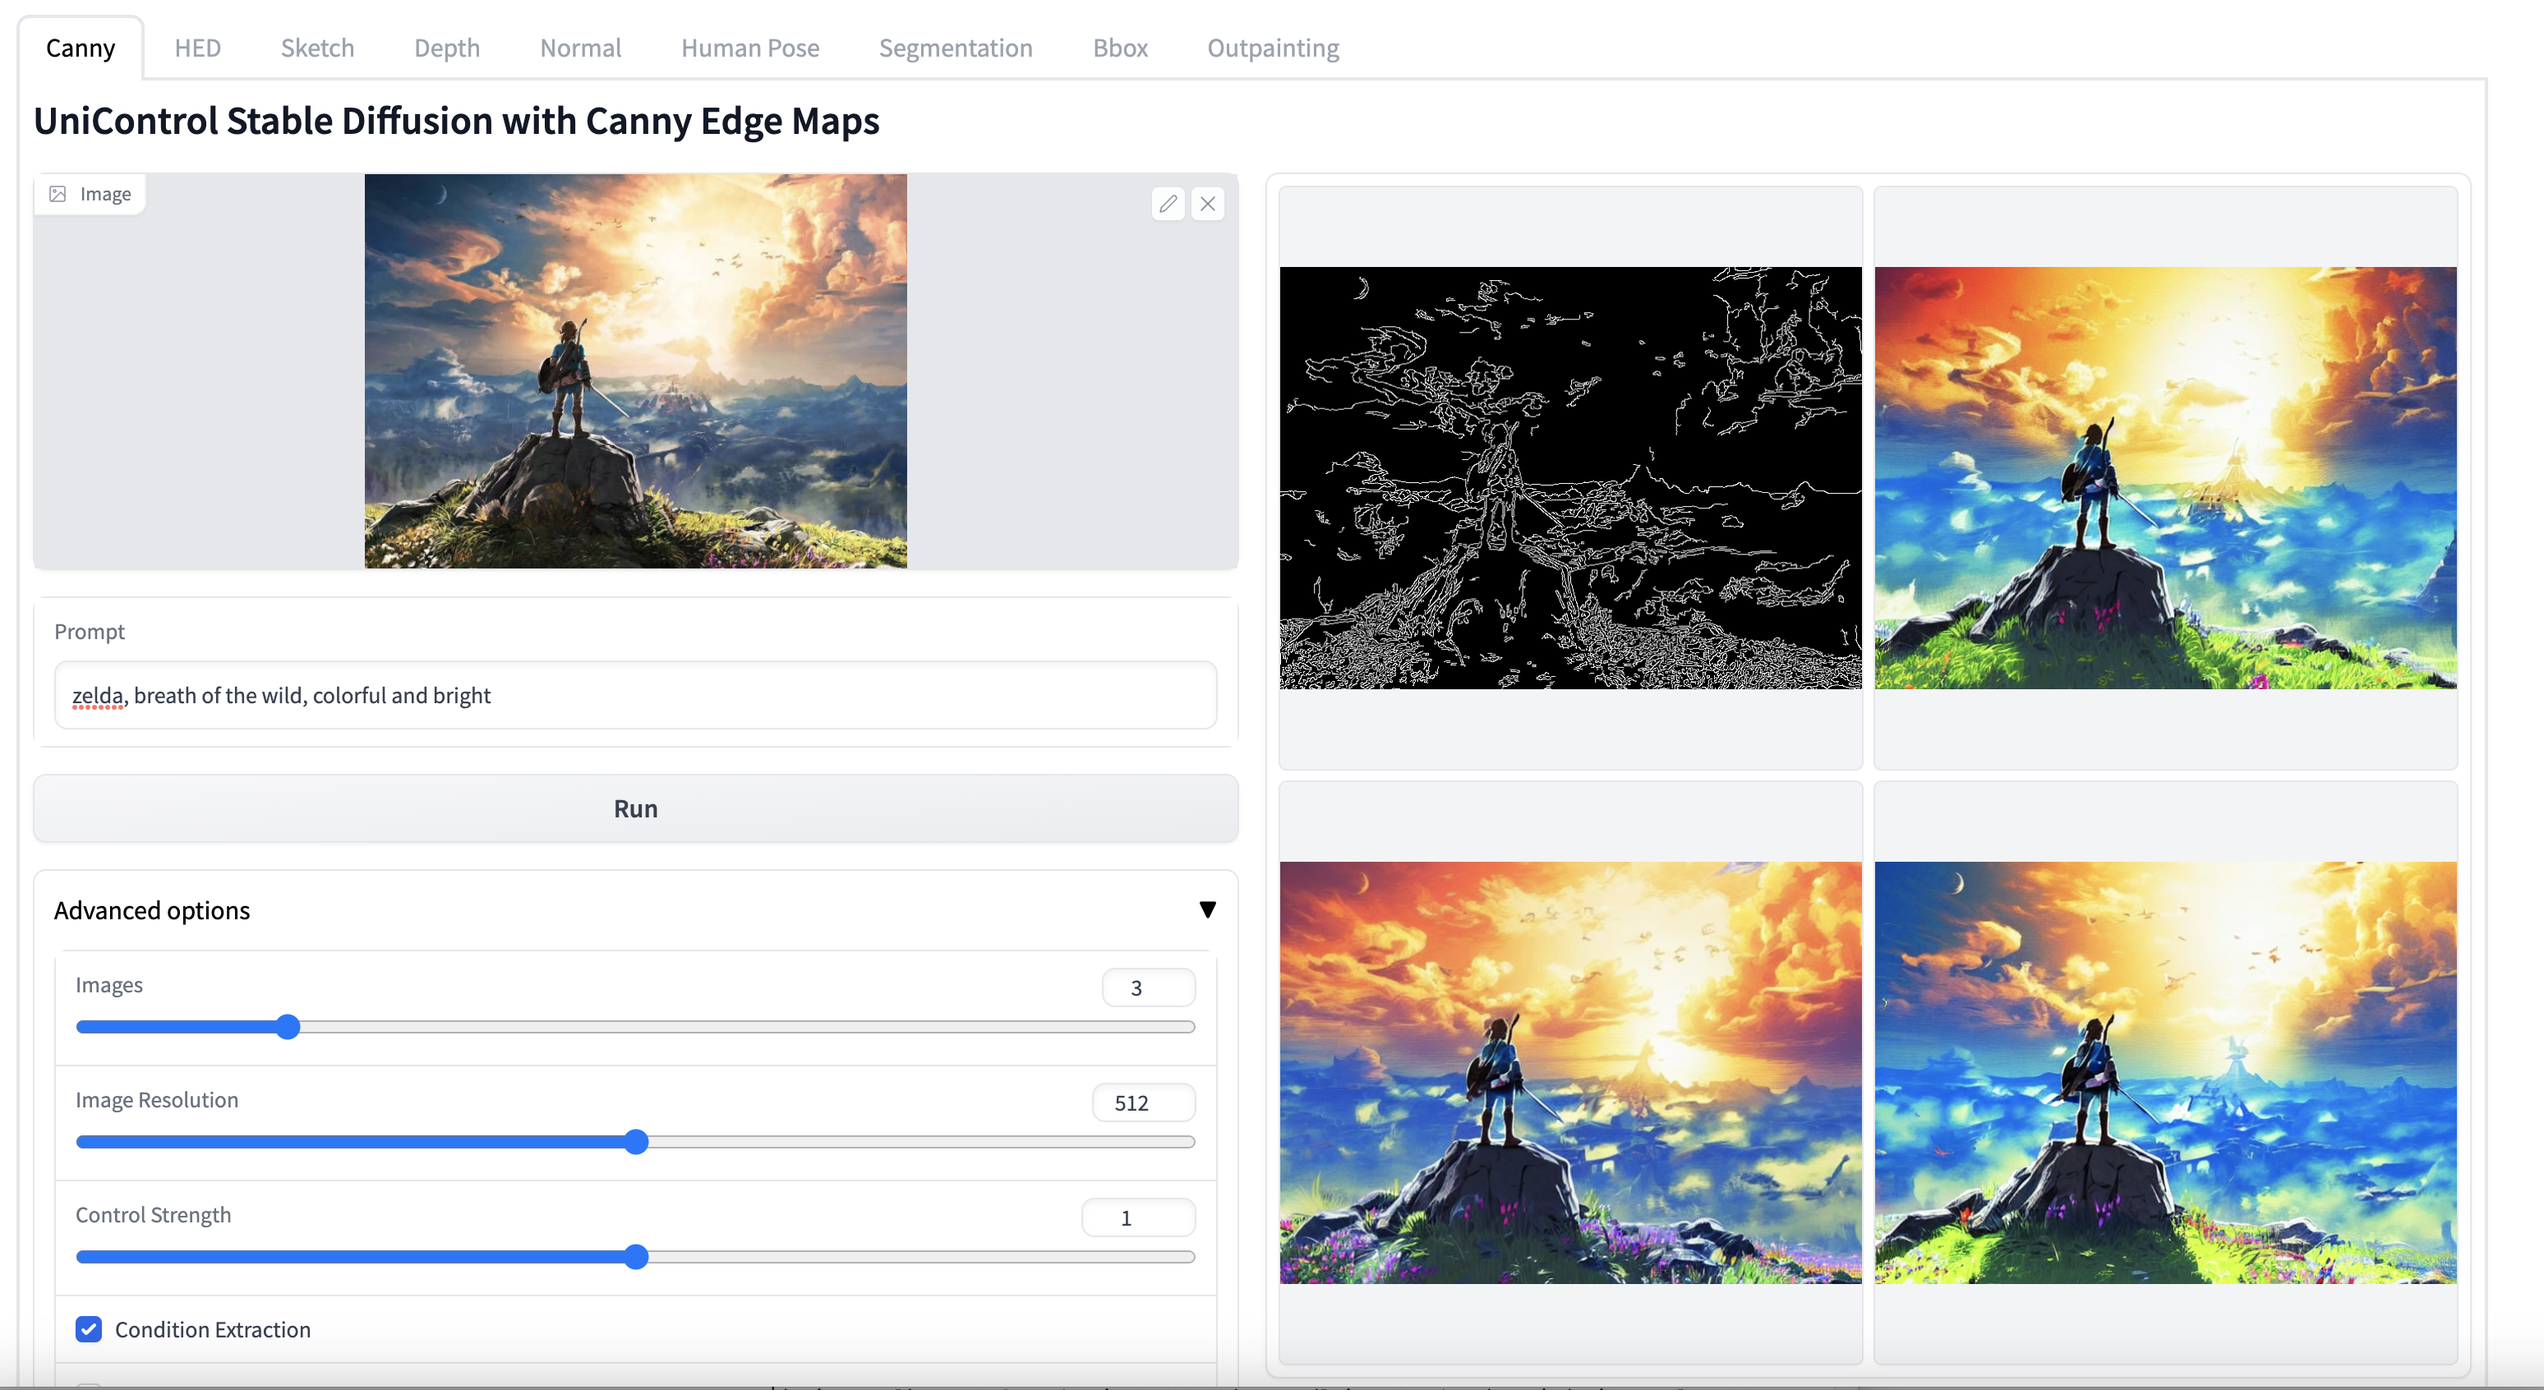
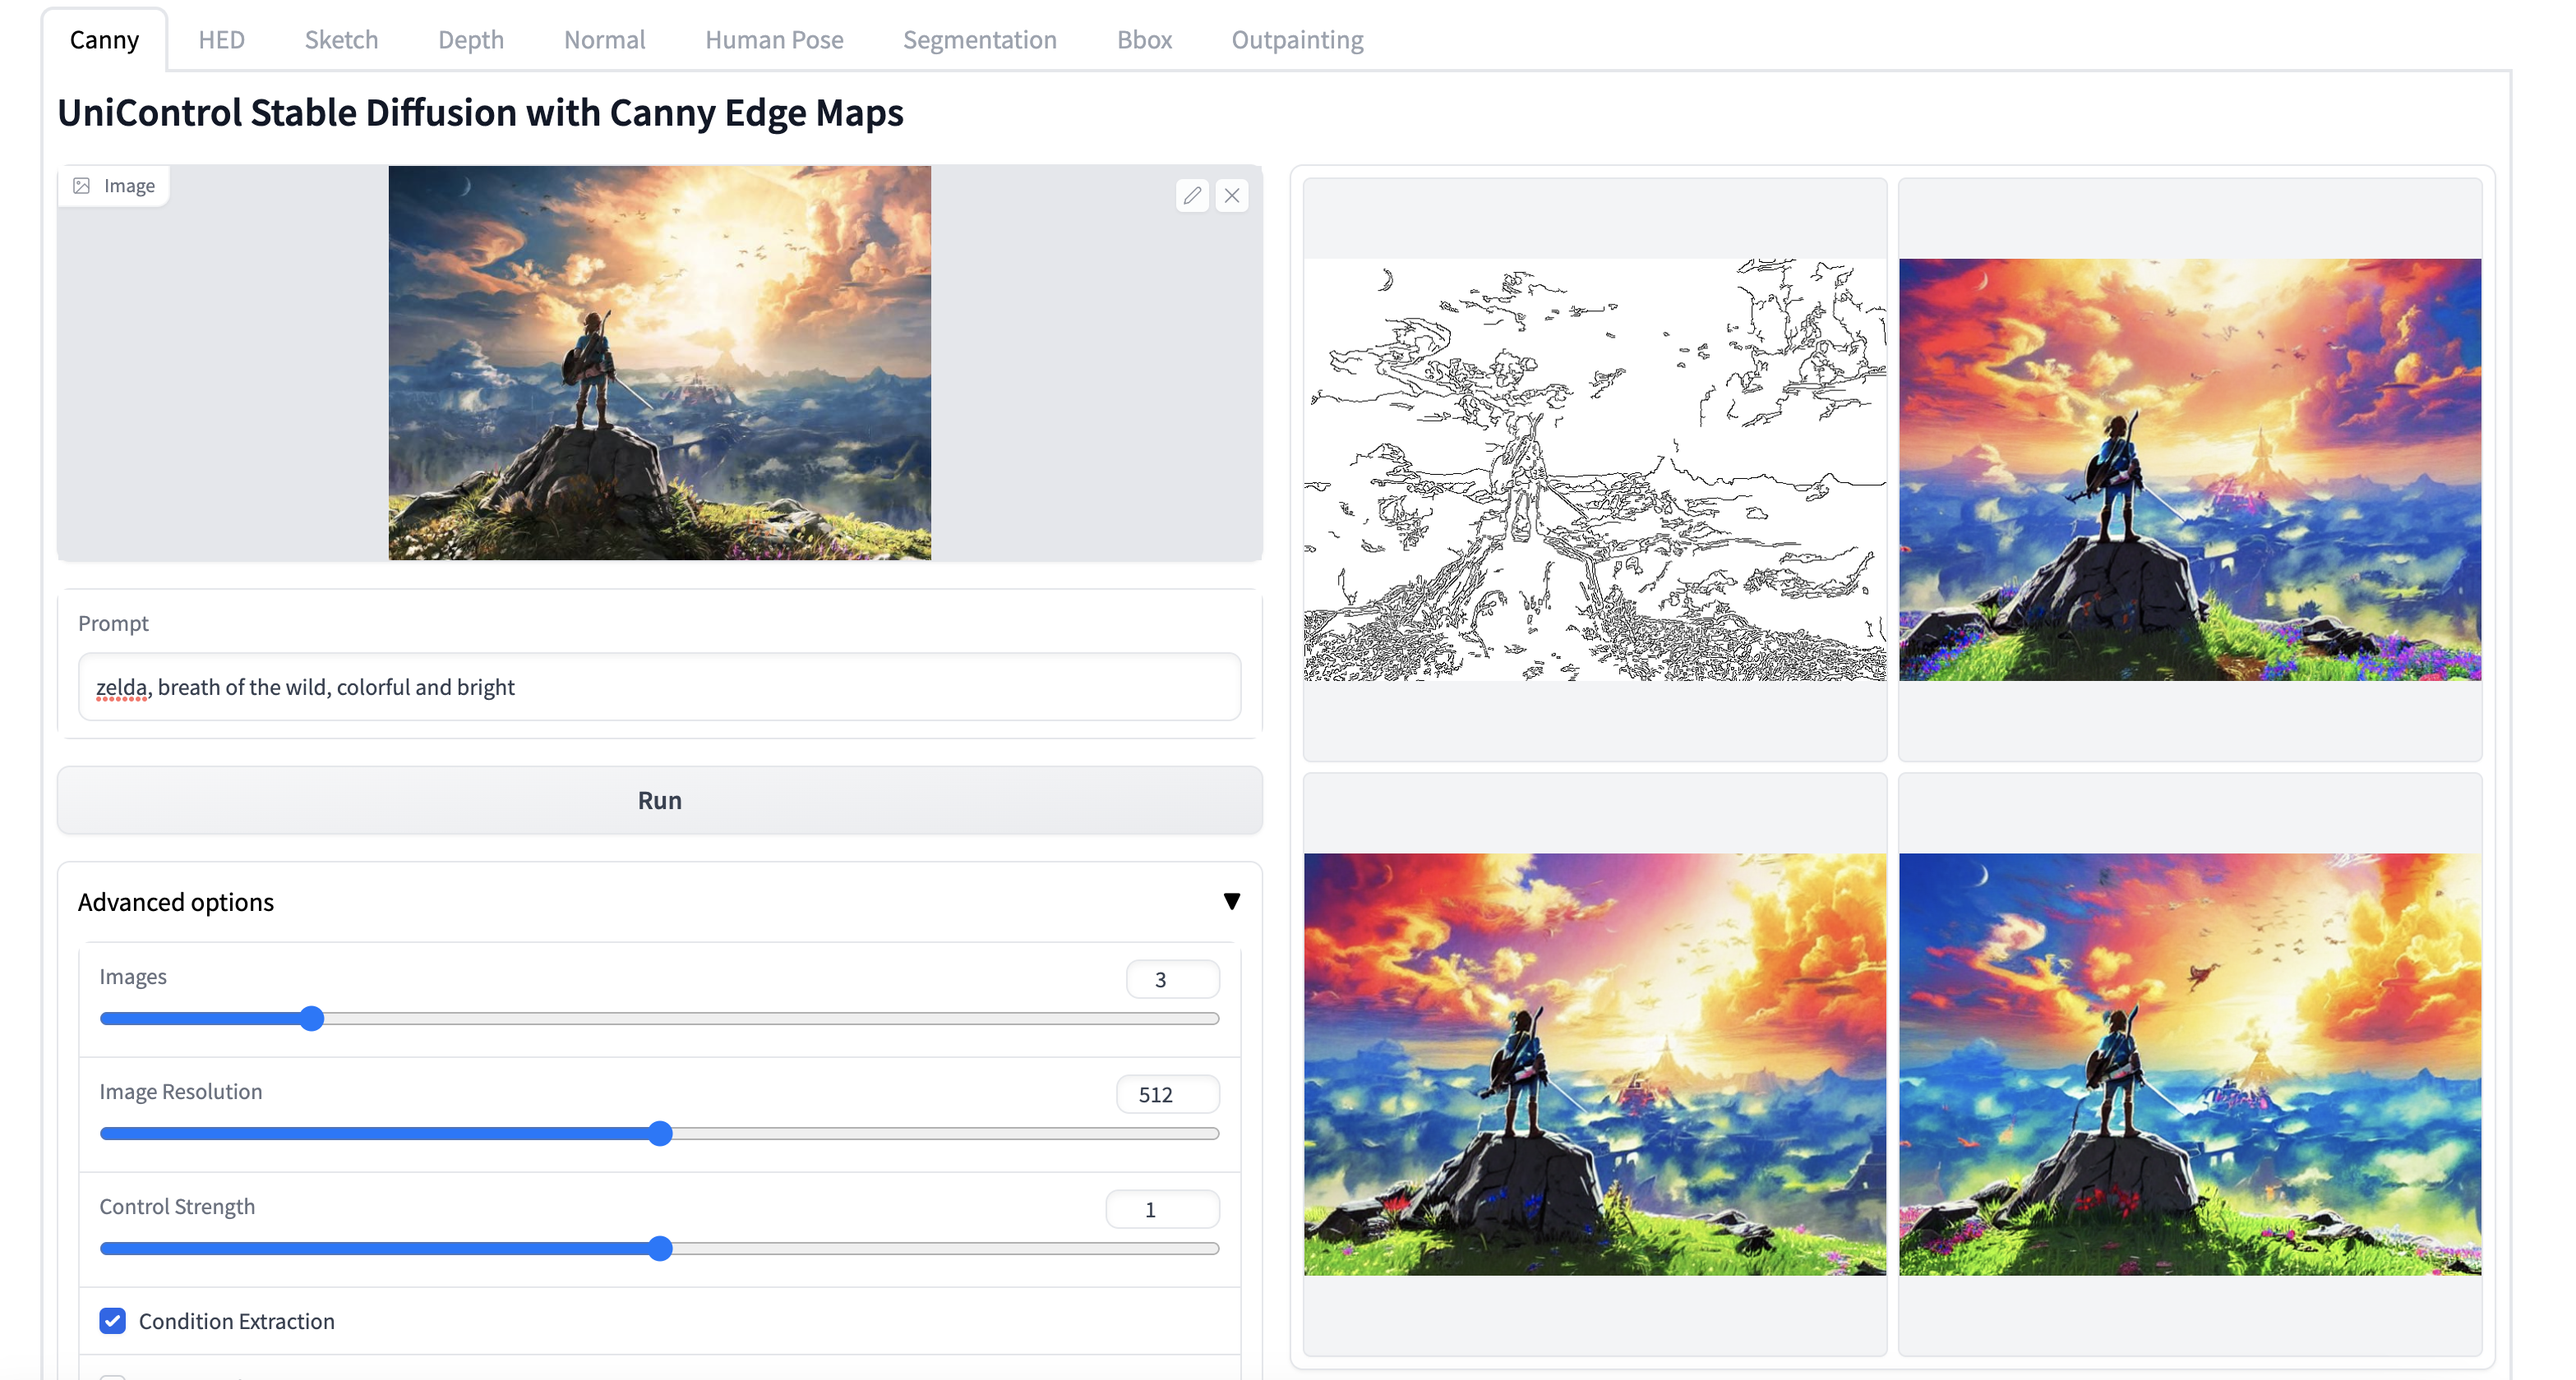
docs update

diff --git a/gradio_all_tasks.py b/gradio_all_tasks.py
@@ -67,7 +67,7 @@ def process_canny(input_image, prompt, a_prompt, n_prompt, num_samples, image_re
             detected_map = apply_canny(img, low_threshold, high_threshold)
             detected_map = HWC3(detected_map)
         else:
-            detected_map = img
+            detected_map = 255 - img
 
         control = torch.from_numpy(detected_map.copy()).float().cuda() / 255.0
         control = torch.stack([control for _ in range(num_samples)], dim=0)

diff --git a/gradio_canny2image.py b/gradio_canny2image.py
@@ -81,7 +81,7 @@ def process(input_image, prompt, a_prompt, n_prompt, num_samples, image_resoluti
         x_samples = (einops.rearrange(x_samples, 'b c h w -> b h w c') * 127.5 + 127.5).cpu().numpy().clip(0, 255).astype(np.uint8)
 
         results = [x_samples[i] for i in range(num_samples)]
-    return [detected_map] + results
+    return [255 - detected_map] + results
 
 
 block = gr.Blocks().queue()

diff --git a/README.md b/README.md
@@ -22,6 +22,11 @@ Achieving machine autonomy and human control often represent divergent objective
 
 ![img](figs/method.png)
 
+## Updates
+* 05/18/23: [UniControl](https://arxiv.org/abs/2305.11147) paper uploaded to arXiv.
+* 05/26/23: UniControl inference code and checkpoint is open to public.
+* 05/28/23: New UniControl checkpoint is updated.
+
 
 ## Instruction
 ### Environment Preparation
@@ -109,10 +114,16 @@ We have provided gradio demos for different tasks to use. The example images are
     <a><img src="figs/gradio_all_tasks.png"  height="300px" ></a>
 </div>
 
-For all the tasks (`Canny, HED, Sketch, Depth, Normal, Human Pose, Seg, Bbox, Outpainting`) please run the following code. Please unmark the `Condition Extraction` in UI if you want to upload condition image directly. 
+For all the tasks (`Canny, HED, Sketch, Depth, Normal, Human Pose, Seg, Bbox, Outpainting`) please run the following code: 
 ```
 python gradio_all_tasks.py
 ```
+
+<div align="center">
+    <a><img src="figs/gradio_all_task_sketch.png"  height="300px" ></a>
+</div>
+
+We support the direct condition-to-image generation (as shown above). Please unmark the `Condition Extraction` in UI if you want to upload condition image directly. 
 
 
 Or, we provide the task-specifc gradio demos:
@@ -215,6 +226,9 @@ python gradio_outpainting.py
 - [ ] Zero-shot Tasks Inference
 - [ ] Model Training
 
+## Tips
+* Negative prompts are very useful in some cases: `monochrome, lowres, bad anatomy, worst quality, low quality` are example ones.
+
 
 ## Citation
 If you find this project useful for your research, please kindly cite our paper:
@@ -229,9 +243,11 @@ If you find this project useful for your research, please kindly cite our paper:
 ```
 
 ## Acknowledgement
+*This project is built upon the gaint sholders of ControlNet and Stable Diffusion. Great thanks to them.*
+
 Stable Diffusion https://github.com/CompVis/stable-diffusion
 
-ControlNet https://github.com/lllyasviel/ControlNet
+ControlNet https://github.com/lllyasviel/ControlNet 
 
 StyleGAN3 https://github.com/NVlabs/stylegan3
     
